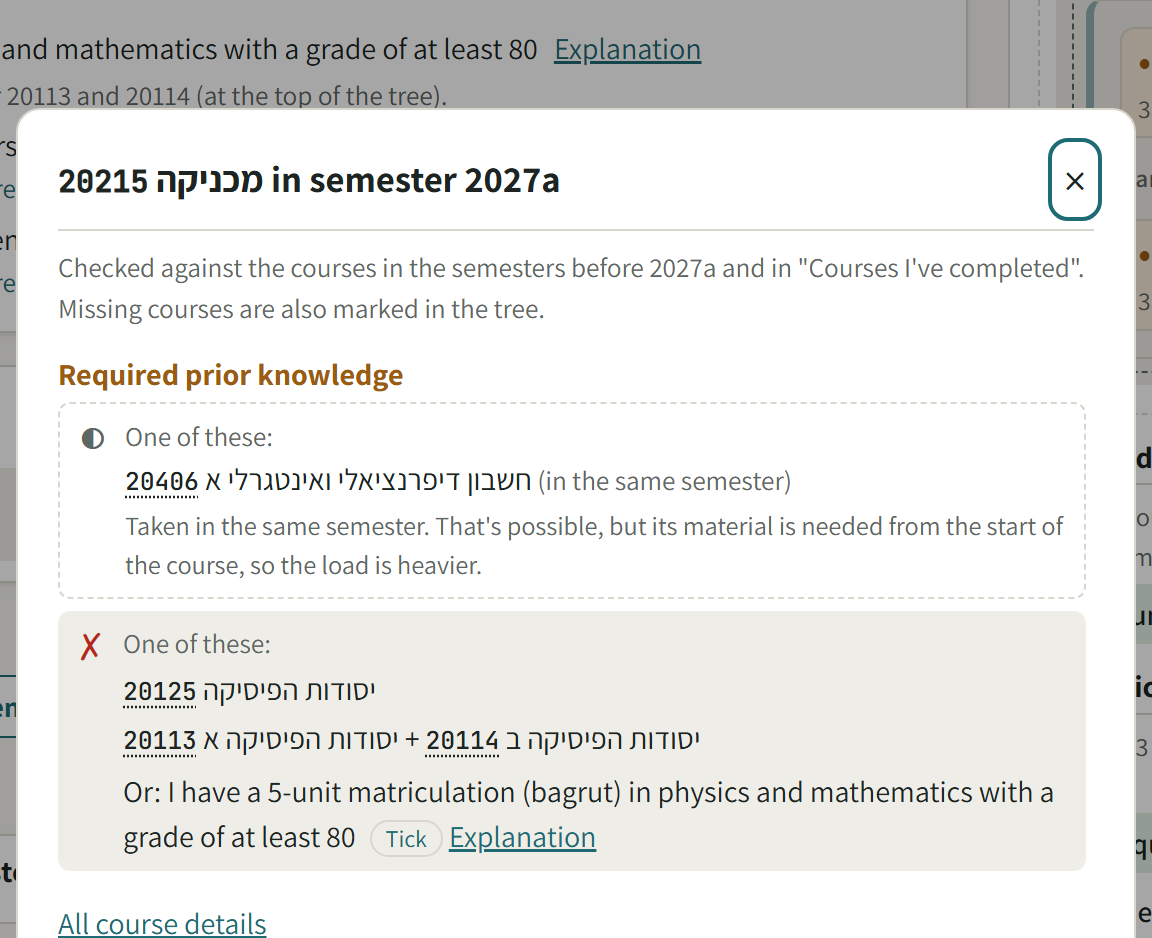
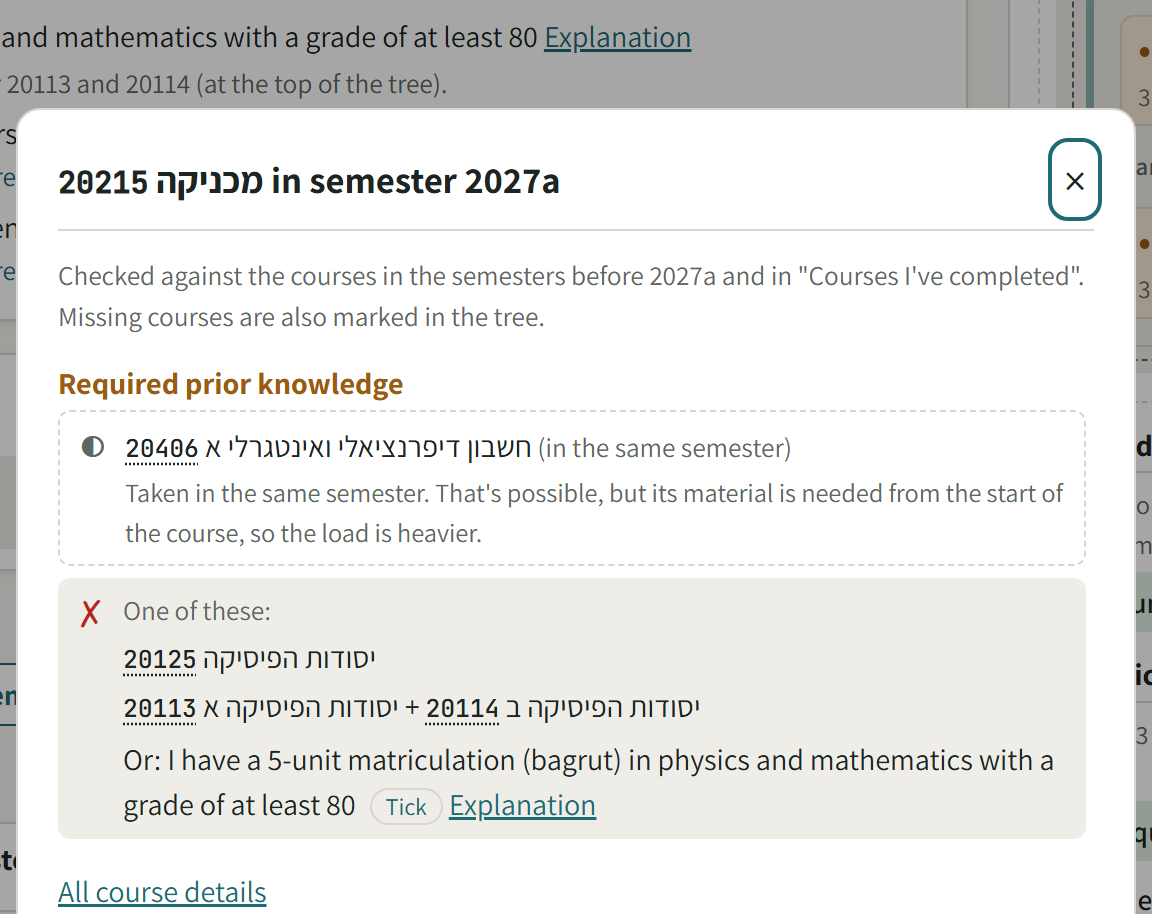
Tree: a course a placed course needs is filled red/orange, like an option

diff --git a/style.css b/style.css
@@ -409,8 +409,10 @@ button.history:disabled:hover { border-color: var(--line); }
 .chip .why.warn { color: var(--warn); }
 .chip.prob-bad { border-color: var(--bad); border-inline-start: 4px solid var(--bad); }
 .chip.prob-warn { border-color: var(--warn); border-inline-start: 4px solid var(--warn); }
-.chip.needed-bad { border: 1.5px dashed var(--bad); }
-.chip.needed-warn { border: 1.5px dashed var(--warn); }
+/* a course a placed course needs: filled like an option for a condition, not a dashed frame (guy, 2026-11-01:
+   one look for both); the line under the name says what it is for */
+.chip.needed-bad, .alt .chip.needed-bad { background: var(--bad-soft); }
+.chip.needed-warn, .alt .chip.needed-warn { background: var(--warn-soft); }
 .chip .dot { font-size: 0.7rem; line-height: 1; }
 .dot.bad { color: var(--bad); }
 .dot.warn { color: var(--warn); }

diff --git a/index.html b/index.html
@@ -7,7 +7,7 @@
 <link rel="preconnect" href="https://fonts.googleapis.com">
 <link rel="preconnect" href="https://fonts.gstatic.com" crossorigin>
 <link href="https://fonts.googleapis.com/css2?family=Assistant:wght@400;600;700&family=JetBrains+Mono:wght@500&display=swap" rel="stylesheet">
-<link rel="stylesheet" href="style.css?v=00a5bf77">
+<link rel="stylesheet" href="style.css?v=8fb65113">
 <script src="i18n.js?v=e2f3071e"></script>
 <script src="lang-ar.js?v=09e3c67f"></script>
 <script src="lang-en.js?v=c241e86a"></script>
